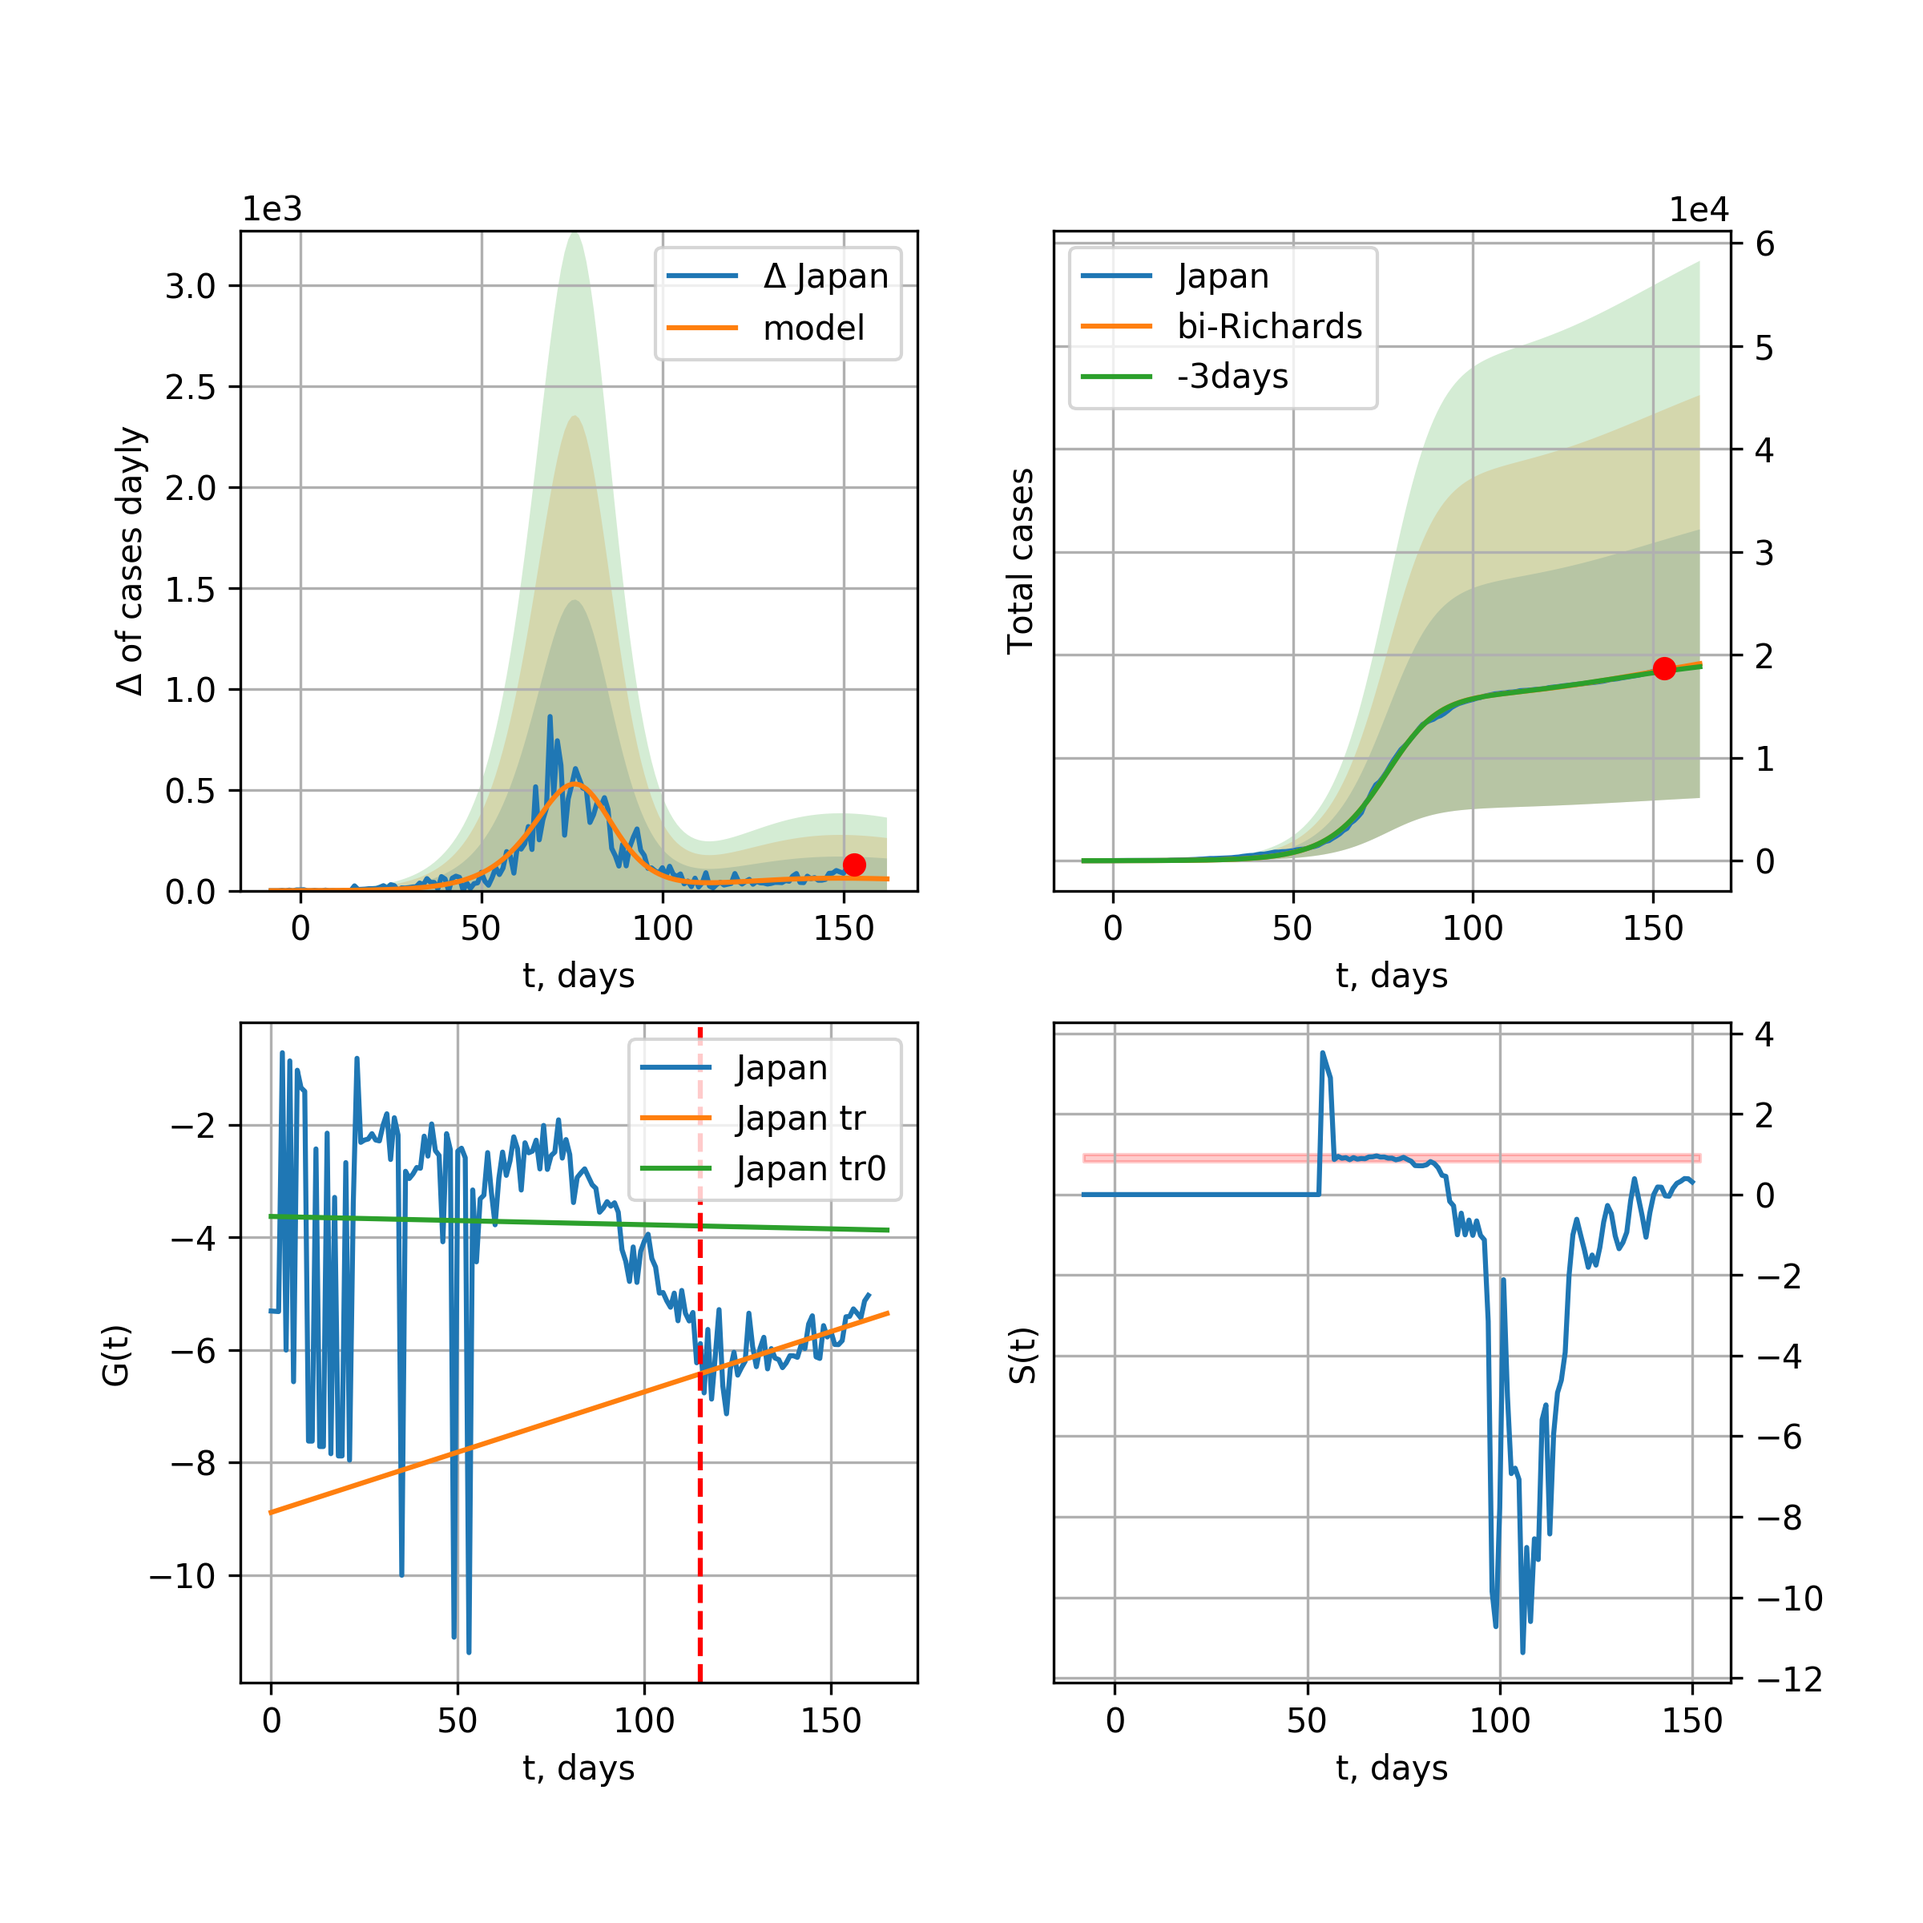
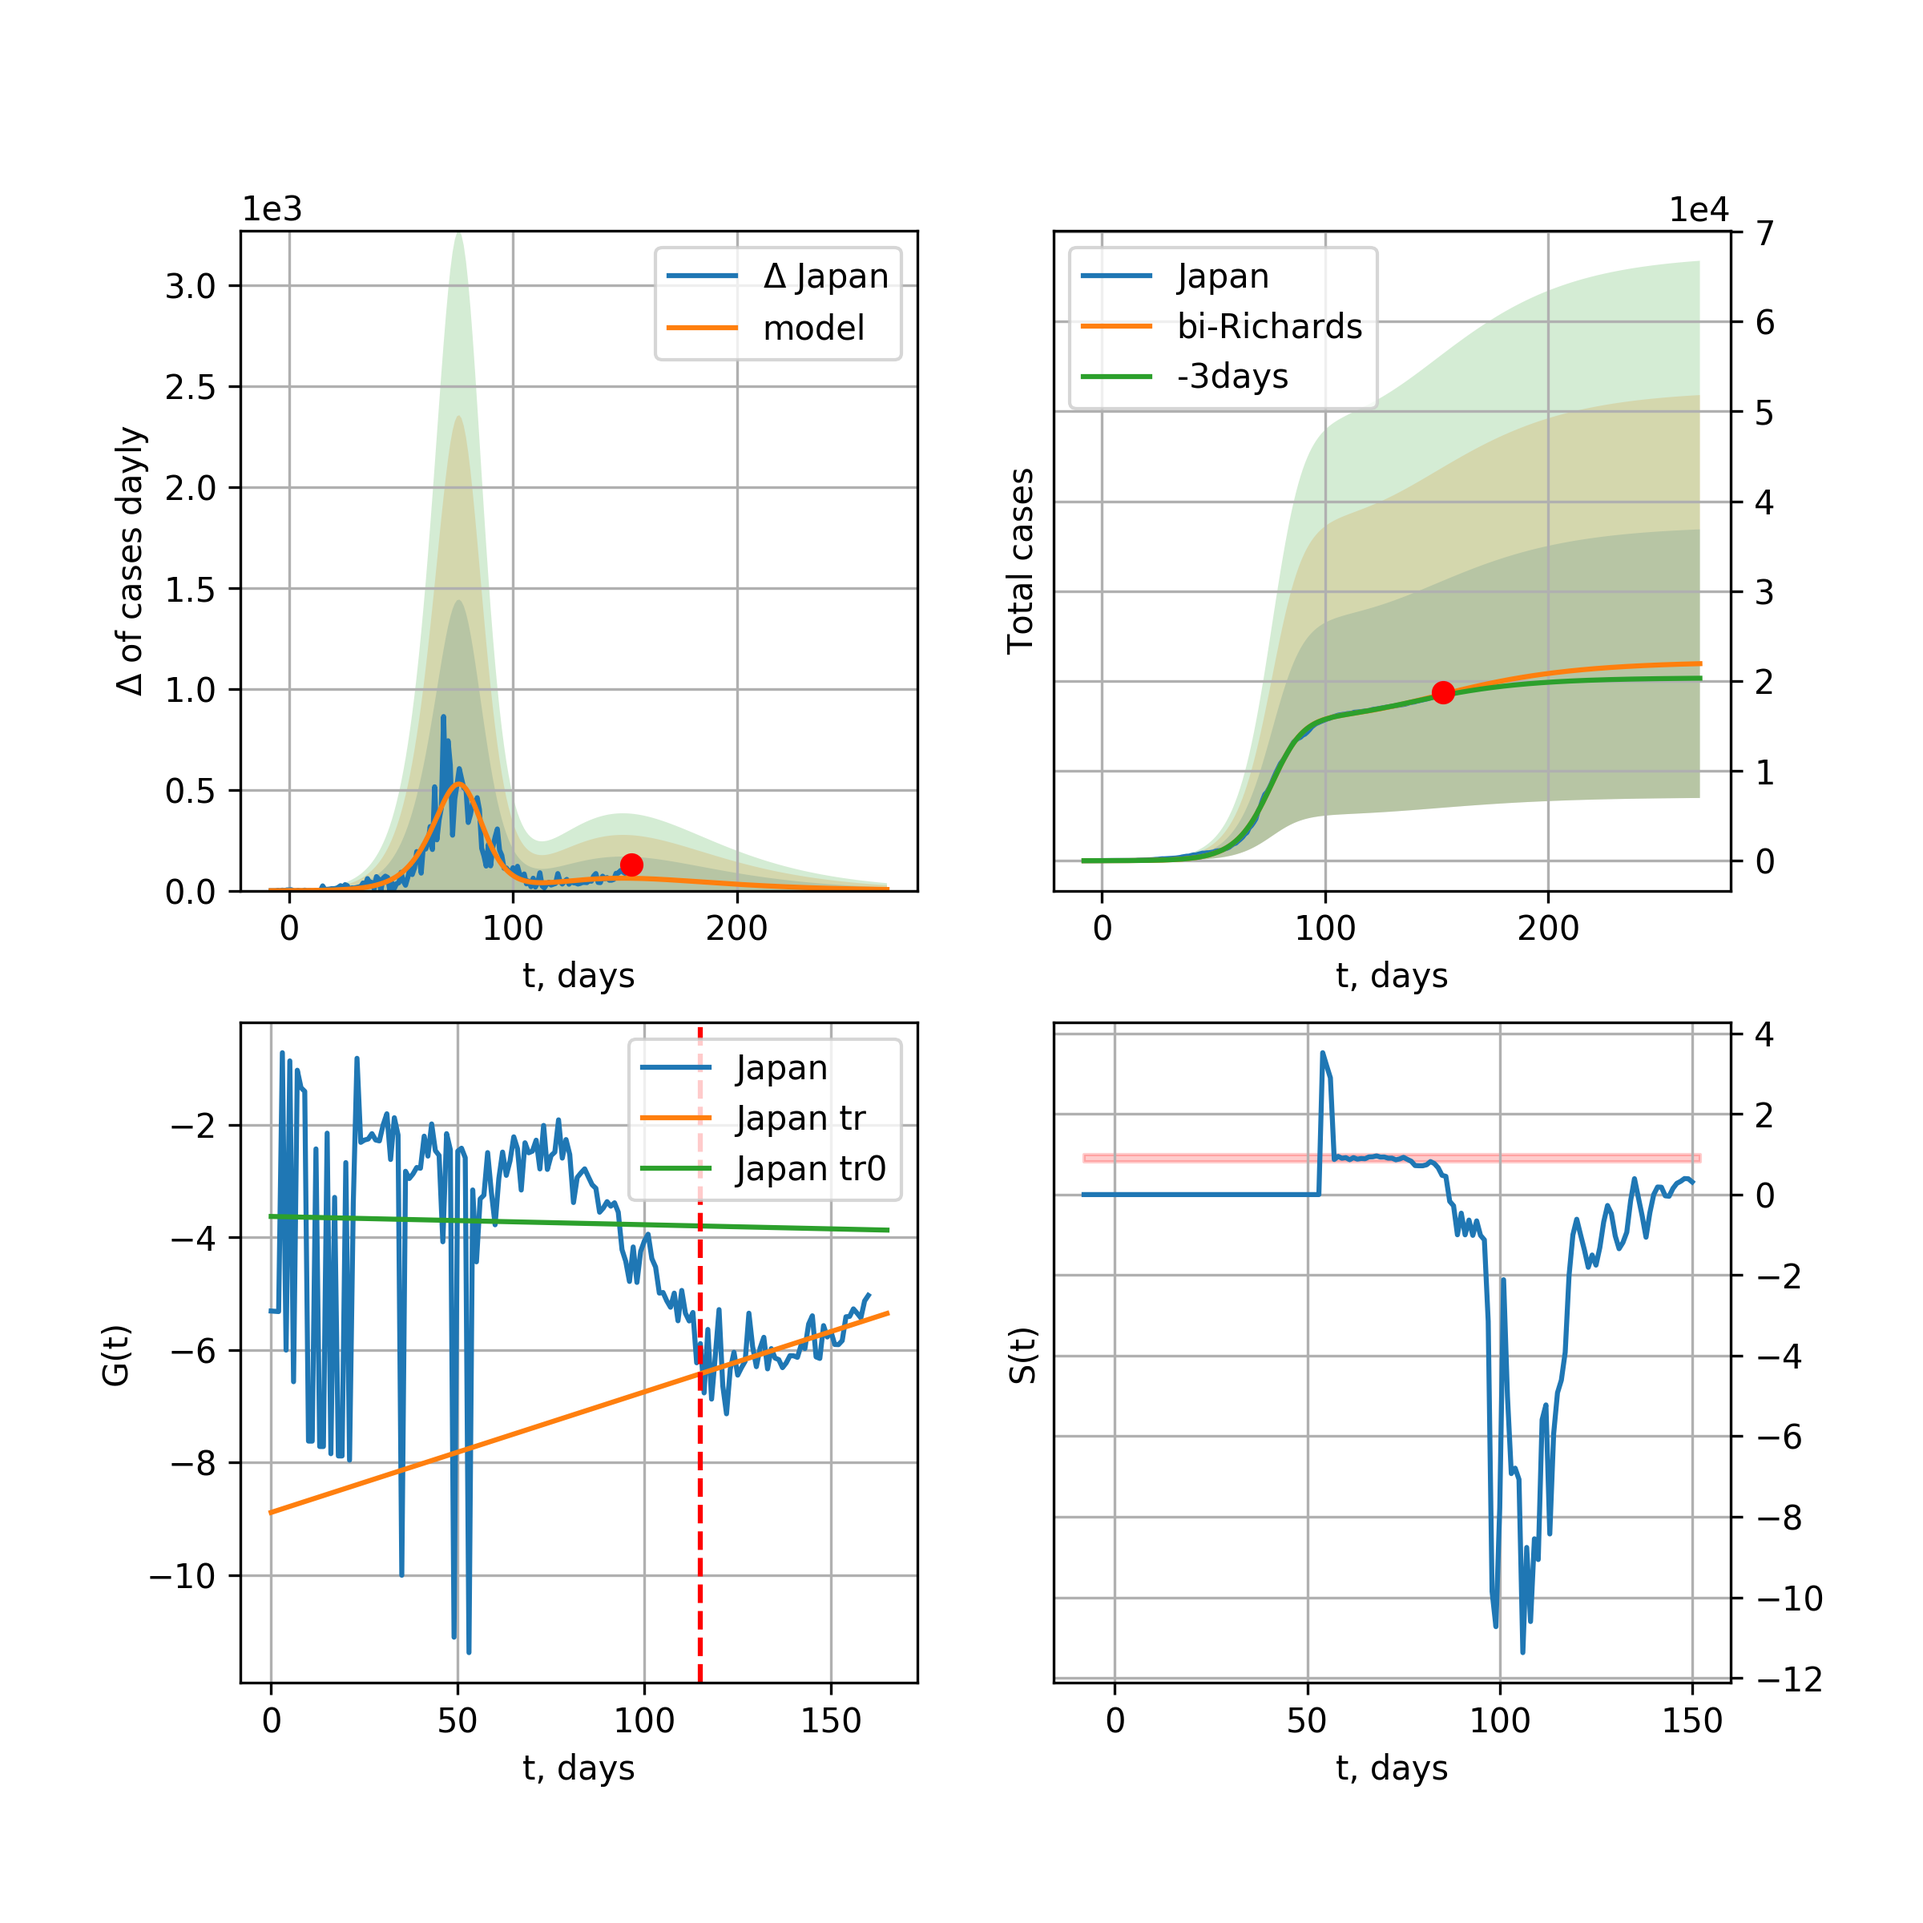
JP renew 2020-06-30

diff --git a/_site/index.html b/_site/index.html
@@ -738,10 +738,10 @@ trend coefficient of determination: 0.960646 <br />
 model: bi-Richards<br />
 coeffs: [ 6.03759676e+03  4.56660169e+00 -3.22937305e+01  6.12959729e-03]<br />
 rational stdev: 0.681612<br />
-forecast at the end of period: +10 days<br />
-	 deltaDaycases: 58<br />
-	 total cases: 19138 ± 13045<br />
-	 total death: 995 ± 2034<br />
+forecast at the end of period: +115 days<br />
+	 deltaDaycases: 6<br />
+	 total cases: 21925 ± 14944<br />
+	 total death: 1140 ± 2331<br />
 bi-Richards approximation splitting point: 115<br />
 trend coefficient of determination: 0.000575 <br />
  intercept: -3.627249 <br />
